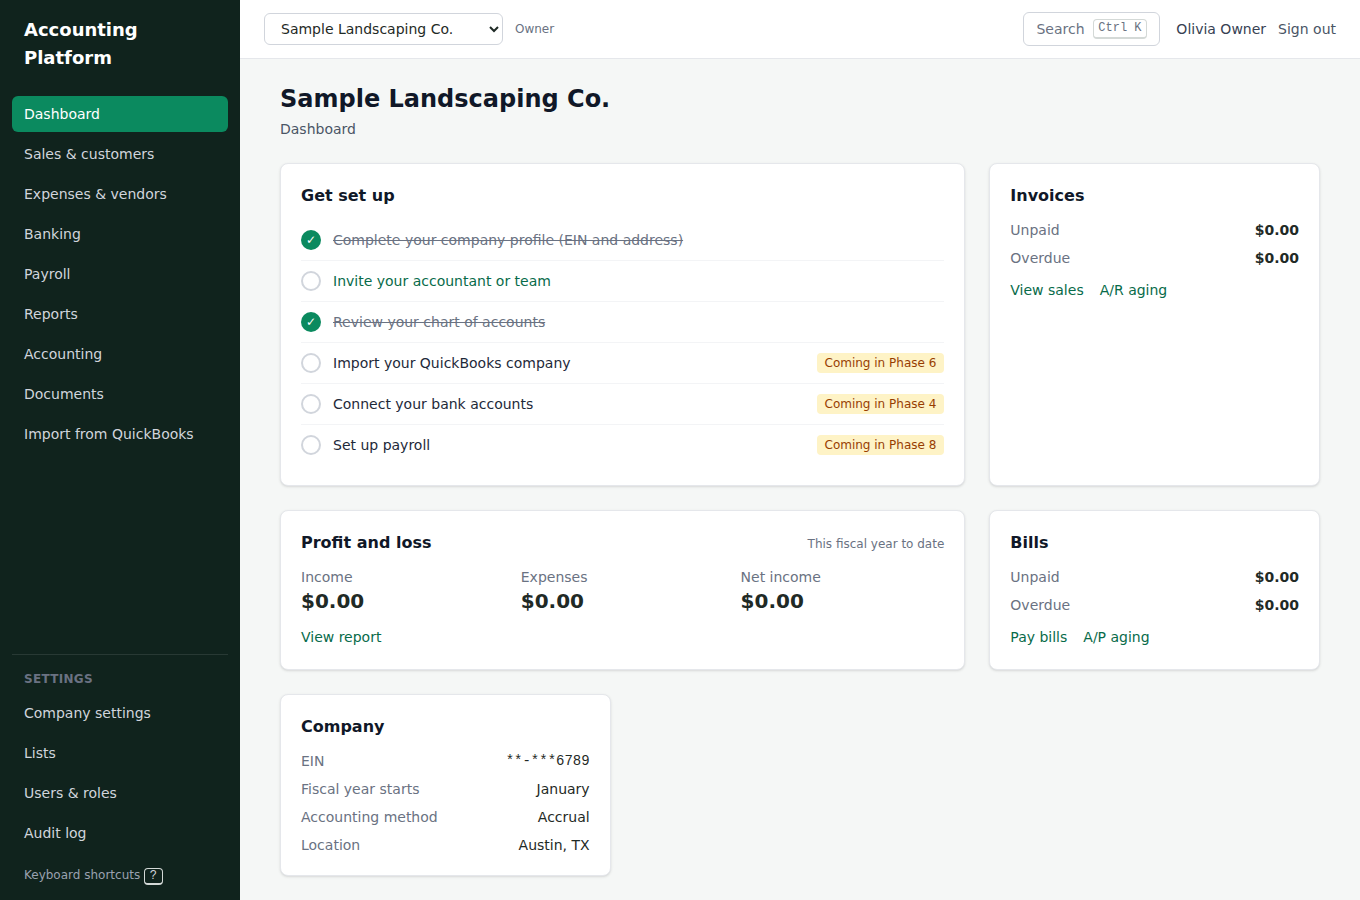
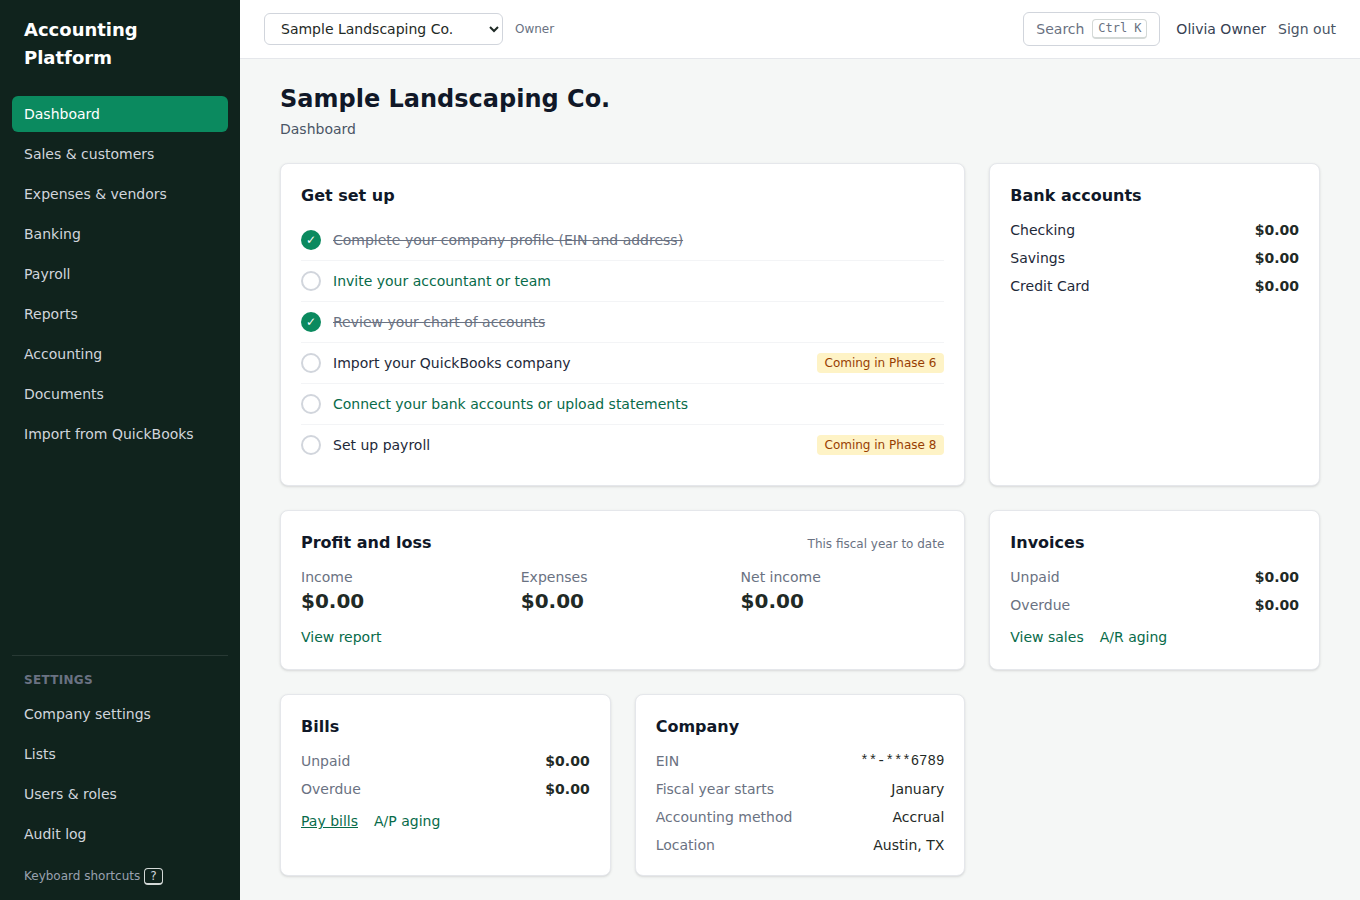
Phase 4 docs: report, ADR 0011, open questions, configuration, screenshots
Claude-Session: https://claude.ai/code/session_018Xjhpppf9gi6XhQLMfeupP

diff --git a/docs/phase-4.md b/docs/phase-4.md
@@ -1,0 +1,123 @@
+# Phase 4: Banking
+
+## Delivered
+
+- **Banking page:**
+  - One card per bank and credit card account, with the bank's balance next to the balance in the
+    books, the number waiting for review, and the connection status.
+  - "Link account", "Update", "Manage connections" and "Upload transactions".
+- **For Review, Categorized, Excluded** (ADR 0011):
+  - Each bank transaction comes with a suggestion: a match to a transaction already entered, a
+    bank rule, the category used last time for the same payee, or a vendor named in the
+    description.
+  - **Add** creates an expense, a check (when the bank reports a check number), a deposit or a
+    credit card credit. It can be split across categories and customers.
+  - **Match** links a transaction already entered, with "find other records".
+  - **Record as transfer**.
+  - **Exclude**, **restore**, **undo**.
+  - **Batch accept**, exclude, restore and undo. Items that can't be accepted are skipped with the
+    reason.
+  - Accepted transactions are marked cleared, so reconciliation starts pre-ticked.
+  - Voiding or deleting a transaction sends its bank transaction back to For Review.
+- **Upload transactions:**
+  - Web Connect (.qbo), Quicken (.qfx) and OFX 1.x/2.x files, including files with several
+    accounts.
+  - CSV with column mapping, date-format detection, signed or money-out/money-in amounts, and flip
+    signs for card exports. The mapping is remembered per account.
+  - A preview before importing, and an optional "skip transactions before".
+  - Duplicates are skipped: by bank id, and across sources (a file after the live feed).
+- **Bank rules:**
+  - Description, payee or amount conditions (all or any); money in, out or both; chosen accounts.
+  - Categorize (with payee and memo), transfer or exclude.
+  - Priority order, and **auto-add**.
+- **Live bank feeds:**
+  - A `BankDataProvider` interface with a Plaid implementation: Link, token exchange, accounts,
+    Transactions Sync, signed webhooks, and re-authentication in Link update mode.
+  - A development bank (mock) for demos and tests.
+  - Map each downloaded account to a bank or credit card account and choose the start date.
+  - Access tokens are encrypted and never shown or audited.
+- **Registers:**
+  - A running balance for bank, card and other balance sheet accounts, with Payment/Deposit
+    (Payment/Charge for cards) columns.
+  - The payee and other account ("-Split-"), a cleared column you can tick (C) with reconciled
+    shown as R, and a "Bank" badge on items from the feed.
+  - Search, a date range and paging.
+- **Transfers** between balance sheet accounts, including **paying a credit card**. Edit, void
+  and delete.
+- **Reconcile:**
+  - Statement date and ending balance, and payments and deposits to tick (tick all per section).
+  - Beginning, cleared, ending and difference.
+  - Finish only at 0.00, save for later, or cancel.
+  - History with **reconciliation reports** (printable) and **undo last reconciliation**.
+  - The amounts of reconciled transactions are protected until the reconciliation is undone.
+- **Dashboard:** a Bank accounts card, and the set-up checklist links to Banking.
+- **Shortcuts:**
+
+  | Keys  | Opens                            |
+  | ----- | -------------------------------- |
+  | `g b` | Banking                          |
+  | `g f` | Transfer (or pay a credit card)  |
+  | `g z` | Reconcile                        |
+  | `g k` | Bank deposit (existing since P2) |
+
+  Bank rules and Upload bank transactions are in the `Ctrl/⌘+K` palette.
+
+- **Permissions:** `banking.view` to read and `banking.manage` to change. Registers are also
+  readable with `ledger.view`, and reconciliation reports with `reports.view`.
+- **Seed:** the demo company has:
+  - a credit card payment (transfer);
+  - two bank rules (Fuel, and Bank fees with auto-add);
+  - an uploaded May statement for Checking: one item matches the card payment, one matches check
+    1001, the service fee was auto-added, and the rest wait for review.
+
+## Configuration
+
+| Variable             | Values                            | Notes                                                             |
+| -------------------- | --------------------------------- | ----------------------------------------------------------------- |
+| `BANK_FEED_PROVIDER` | `mock` (default), `plaid`, `none` | `mock` is refused in production; `none` means file imports only   |
+| `PLAID_CLIENT_ID`    |                                   | Required with `plaid`                                             |
+| `PLAID_SECRET`       |                                   | Required with `plaid`; never logged                               |
+| `PLAID_ENV`          | `sandbox` (default), `production` |                                                                   |
+| `PLAID_WEBHOOK_URL`  | `https://…/api/webhooks/plaid`    | Optional; without it, downloads happen on "Update" and after Link |
+
+## Demo script
+
+1. Run `pnpm db:migrate && pnpm db:seed && pnpm dev` and sign in as `demo@example.com`.
+2. Press `g b`. On Checking:
+   - "ONLINE TRANSFER TO CARD" suggests the card payment; press **Match**.
+   - "CHECK 1001" suggests the check paid in the Phase 3 demo; press **Match**.
+3. The SHELL row shows "Rule: Fuel". Tick it and **Accept 1**.
+4. Press **Review** on HOME DEPOT and split it between Repairs and Maintenance and Supplies.
+5. Open **Categorized**: the service fee was added by the Bank fees rule. Undo it, and it's back
+   in For Review.
+6. Press **Link account**, then **Connect First Mock Bank**. Map Business Checking to Savings and
+   Business Visa to Credit Card. Seven Savings transactions arrive.
+7. Press `g z` and choose Checking. Enter the statement date and the cleared balance shown; the
+   matched items arrive ticked. **Finish now** opens the reconciliation report.
+8. Open the SHELL expense and try to change its amount: it's reconciled. Go back to **Reconcile ›
+   History**, undo the reconciliation, and the change goes through.
+
+## Tests
+
+| Suite                   | Count | Highlights                                                                                                                                                                                                                                                                                                                                                                                                                                                                                                                                                                                                  |
+| ----------------------- | ----- | ----------------------------------------------------------------------------------------------------------------------------------------------------------------------------------------------------------------------------------------------------------------------------------------------------------------------------------------------------------------------------------------------------------------------------------------------------------------------------------------------------------------------------------------------------------------------------------------------------------- |
+| `packages/shared`       | 94    | +47: OFX SGML/XML (bank and card, missing FITIDs, entities, dates), CSV (quoting, separators, BOM, date formats, signed and split amounts, flip signs, repeatable ids), bank amount formats with **property tests** (exact round trips), description similarity, rule matching (text, amount, direction, accounts, all/any, priority), banking schemas, `formatDollars`                                                                                                                                                                                                                                     |
+| `packages/crypto`       | 13    | Unchanged                                                                                                                                                                                                                                                                                                                                                                                                                                                                                                                                                                                                   |
+| `packages/db`           | 45    | +9: transfer type, bank-id duplicates, zero amounts and status rules, tenant isolation and cross-company references, one reconciliation in progress, reconciled needs a reconciliation, rule actions need accounts, one feed per account, webhook tenant lookup (and the table stays hidden)                                                                                                                                                                                                                                                                                                                |
+| `apps/api`              | 140   | +35: transfers and registers (natural signs), OFX import and re-import, match/add/split/deposit/transfer, rules with auto-add and CSV mapping, exclude/restore/batch/undo, learned categories, card payment matched with the card's sign, reconciliation (pre-ticked, zero difference, finish, report, undo), reconciled amounts protected, void returns the bank transaction to For Review, audit, mock connection (map, sync, balances, disconnect), access tokens never exposed, webhooks, body limits; matching and duplicate scoring; Plaid provider with a fake API and real ES256 webhook signatures |
+| `apps/web` (Playwright) | 6     | +1: transfer (card payment) → upload QBO → match, categorize, split deposit → bank rule and batch accept → register → reconcile with untick/retick → report → link mock bank and map accounts → dashboard                                                                                                                                                                                                                                                                                                                                                                                                   |
+
+## Known gaps and decisions for later phases
+
+- **Plaid in production** needs a Plaid account, production access and a public webhook URL
+  (see open questions). Everything is tested against a fake Plaid API and the mock bank.
+- There is no **scheduled sync**. Downloads happen on "Update", after connecting, and on Plaid
+  webhooks. A nightly job comes with background jobs (Phase 12).
+- **Matching to open invoices or bills** (receive payment or pay a bill straight from the bank
+  feed) isn't offered yet. Enter the payment, then match it.
+- **Service charges and interest** aren't entered on the reconcile screen; add them from the
+  bank feed or as an expense or deposit first.
+- **Reconciled transactions can't change amount** until the reconciliation is undone (QuickBooks
+  warns instead; see open questions).
+- A **vendor refund** can't name the vendor on a deposit.
+- **Multi-currency** bank accounts come with Phase 10.

diff --git a/docs/adr/0011-banking.md b/docs/adr/0011-banking.md
@@ -1,0 +1,165 @@
+# ADR 0011: Banking: registers, reconciliation, bank feeds (Phase 4)
+
+- Status: Accepted
+- Date: 2026-09-29
+
+## Context
+
+Phase 4 adds what a bookkeeper does with bank and credit card accounts:
+
+- registers and transfers;
+- reconciliation against statements;
+- statement file imports and live bank feeds, with a For Review workflow, matching and bank
+  rules.
+
+It has to keep the journal rules of ADR 0007 (one posting path, append-only versioned lines) and
+the document design of ADR 0009/0010.
+
+## Decision
+
+### Transfers are journal transactions; everything else sits beside the journal
+
+- A **transfer** is a new transaction type posted through `PostingService`: Dr "to", Cr "from".
+  Paying a credit card is a transfer from the bank to the card.
+- **Cleared and reconciled marks** live in `bank_clearings` (transaction × account), not on
+  journal lines. Lines are versioned and append-only, but clearing is current state that changes
+  often. A transaction can be cleared in one account and not in the other (a card payment clears
+  the bank statement and the card statement separately).
+- **Registers** are computed from the journal: each posted transaction's net on the account, a
+  running balance ordered by date and entry, and the payee and "split" column from its other
+  lines.
+
+### Natural sign
+
+Registers, reconciliations and downloaded transactions use the account's natural sign:
+
+- For assets (bank), the balance goes up with debits.
+- For liabilities (credit card, loans), the balance owed goes up with credits.
+
+Bank amounts are signed as money into the account, which is debit − credit on the account for both
+banks and cards. So a card payment (+) matches a transfer to the card, and a charge (−) matches an
+expense paid by card.
+
+### Reconciliation
+
+| Step    | What happens                                                                                                                                                                                                                  |
+| ------- | ----------------------------------------------------------------------------------------------------------------------------------------------------------------------------------------------------------------------------- |
+| Start   | Statement date and ending balance. One in progress per account (unique partial index). The date must be later than the last completed reconciliation.                                                                         |
+| Tick    | Ticks are cleared marks, so they also show as "C" in the register. Transactions added or matched from the bank feed arrive ticked.                                                                                            |
+| Balance | Beginning balance = everything reconciled so far. Cleared balance = beginning + ticked transactions dated on or before the statement date. Difference = ending − cleared.                                                     |
+| Finish  | Only at a difference of 0.00. The ticked transactions become reconciled ("R") and point to the reconciliation.                                                                                                                |
+| Undo    | Only the latest completed reconciliation of an account, and only with none in progress. Its transactions go back to cleared. Audited.                                                                                         |
+| Report  | Summary (beginning, cleared, ending, uncleared, register balances) and detail. Payments and deposits (or charges and payments for a card) are listed as cleared, uncleared as of the statement, and after the statement date. |
+
+**Reconciled amounts are protected.** `PostingService.revise` refuses a new version that changes a
+reconciled transaction's net on the reconciled account, and `setStatus` refuses to void or delete
+it (`409 RECONCILED`). Memo, payee, category and date changes are allowed. Undoing the
+reconciliation is the way to change the amount. QuickBooks only warns here; see open questions.
+
+### Bank transactions and For Review
+
+- Downloaded and imported transactions land in `bank_feed_transactions` with a bank id, unique per
+  account. The bank id is one of:
+  - the FITID (`ofx:`);
+  - Plaid's `transaction_id` (`plaid:`);
+  - for files without ids, a content id (`csv:` or `ofx-h:`) of date, amount, a hash of the
+    description, and an occurrence number (so two identical purchases on one day both import, and
+    re-importing the file finds both as duplicates).
+- **Duplicates from another source** (a file after the feed, or the reverse) are found by the same
+  amount within 3 days and similar descriptions. Each existing row pairs with at most one new row,
+  closest date first. Rows from the same source are compared by id only.
+- **Suggestions** for each For Review item, first match wins:
+  1. A match to a transaction already in the books: same amount; posted 5 days before to 10 days
+     after it (90 days for a check with the same number); scored by date, check number and payee.
+  2. The first bank rule that applies.
+  3. The category chosen last time for the same payee (learned from earlier added items).
+  4. A vendor or customer whose name appears in the description.
+- **Accepting**:
+  - Add creates a real document through its service: an expense (a check when the bank reports a
+    check number), a deposit, or a credit card credit. Splits are supported.
+  - Transfer creates a transfer.
+  - Match links an existing transaction.
+  - In every case the transaction is marked cleared in the account.
+- **Exclude** hides an item; restore brings it back. **Undo**:
+  - An added transaction is deleted.
+  - A match is unlinked and its cleared mark removed.
+- Voiding or deleting a transaction elsewhere sends its bank transaction back to For Review
+  (`PostingService.setStatus`).
+- **Batch** actions run each item in a savepoint. One failure (a closed period, a missing
+  category) skips that item with a reason; the rest go through.
+
+### Bank rules
+
+- Conditions are on description, payee or amount (without its sign), combined with all or any.
+- Rules can be limited to money in or out and to certain accounts.
+- Actions: categorize (account, vendor or customer, class, memo), transfer, or exclude.
+- Rules run in priority order (then name) and the first match wins. They are evaluated when the
+  list is shown, so a new rule applies to items already waiting.
+- **Auto-add** rules accept items as they arrive, except items that match a transaction already
+  entered.
+
+### File imports
+
+- **OFX 1.x (SGML) and 2.x (XML).** One tolerant reader serves QFX and QuickBooks Web Connect
+  (QBO) too. It reads leaf elements with or without closing tags. It supports:
+  - bank (`STMTRS`) and credit card (`CCSTMTRS`) statements, and choosing among several in one
+    file;
+  - the ledger balance, stored as the account's last bank balance.
+- **CSV** with RFC 4180 quoting and `,` `;` or tab separators:
+  - column mapping: date, description, memo, payee, check number, and either a signed amount or
+    money-out and money-in columns;
+  - an option to flip signs;
+  - date-format detection (MDY, DMY or YMD, with MDY preferred when ambiguous);
+  - the mapping is saved per account.
+- The parsers live in `@acct/shared`. The web parses the file to preview it and choose columns,
+  and the API parses it again to import it. Files are sent as JSON text; only the import route
+  accepts bodies over 256 KB (up to 6 MB).
+
+### Live feeds: the `BankDataProvider` seam
+
+- `BankDataProvider` defines:
+  - `createLinkToken` (including update mode for re-authentication);
+  - `exchangePublicToken`, `getAccounts`;
+  - `syncTransactions(cursor)`;
+  - `removeItem`;
+  - `parseWebhook`, which verifies and reads a webhook.
+- **Plaid** is implemented over its REST API without the SDK:
+  - Link, `/item/public_token/exchange`, `/accounts/get`, `/transactions/sync` and
+    `/item/remove`.
+  - Pending transactions are skipped; the posted one arrives when it settles.
+  - Plaid's sign (positive = money out) is flipped.
+  - Webhooks are verified: ES256 JWT in `Plaid-Verification`, key from
+    `/webhook_verification_key/get`, body SHA-256 and a 5-minute age limit.
+- A **mock** provider serves development, tests and demos. It is refused in production.
+- `BANK_FEED_PROVIDER=plaid|mock|none` chooses the provider. With `none`, banking works with file
+  imports only.
+- **Access tokens** are encrypted with `FieldEncryptor` (AAD `bank_connection:<id>:access_token`).
+  They never appear in responses, logs or the audit log.
+- **Sync** downloads every page first, with no database transaction open during network calls,
+  then stores them in one transaction:
+  - It ingests added transactions for mapped accounts from each account's start date (default 90
+    days back).
+  - It updates modified items still in For Review and deletes removed ones.
+  - It stores balances and the cursor.
+  - Mapping accounts resets the cursor so newly mapped accounts get their history; the bank ids
+    make this safe.
+- **Webhooks** arrive without a tenant context. `app_bank_connection_company(provider, item_id)`
+  is a `security definer` function that returns only the owning company id. The API then works
+  inside `withTenant` as the user who connected the bank.
+  - `SYNC_UPDATES_AVAILABLE` triggers a sync.
+  - Login errors mark the connection "sign-in needed" until the user re-authenticates through Link
+    update mode.
+- The webhook route is public and exempt from the CSRF header check. Authenticity comes from the
+  signature, and it can only trigger a download or a status change for the item it names.
+
+## Consequences
+
+- Reconciliation and the bank feed read the same journal the reports read. Nothing in banking
+  can make the books and the register disagree.
+- Transactions created from the bank feed are ordinary expenses, checks, deposits, card credits
+  and transfers. They appear in every report, the 1099 summary (bank-paid only) and cash basis
+  without special cases.
+- A Plaid account (client id, secret, production access and a public webhook URL) is needed
+  before live feeds go beyond the mock; see open questions.
+- Deposits can't name a vendor. A vendor refund arriving in the bank is categorized without a
+  vendor, or matched to a deposit entered by hand.

diff --git a/CLAUDE.md b/CLAUDE.md
@@ -30,7 +30,9 @@ A single package: `pnpm --filter @acct/api test`, `pnpm --filter @acct/db test`,
   ledger (accounts, journal entries, posting engine, ledger settings), lists, sales (invoices,
   receipts, credit memos, refunds, payments, deposits, estimates), purchases (bills, vendor credits,
   bill payments/pay bills, checks and check printing, expenses, credit card credits, purchase
-  orders, 1099 in `vendor-1099.ts`), reports (A/R and A/P reports; cash basis in `cash-basis.ts`).
+  orders, 1099 in `vendor-1099.ts`), banking (transfers, registers, reconciliation, bank feed
+  For Review/rules/import, connections through `BankDataProvider` with Plaid and a mock in
+  `banking/providers/`), reports (A/R and A/P reports; cash basis in `cash-basis.ts`).
   The A/R and A/P subledgers share one engine: `ledger/subledger.ts`.
 - `apps/web`: Next.js 16 (App Router) + TanStack Query + Tailwind 4. Calls the API only via `/api/*`.
 - `packages/db`: plain-SQL migrations, migrator, Kysely types, `withTenant()`, `createTestDatabase()`.
@@ -80,6 +82,12 @@ A single package: `pnpm --filter @acct/api test`, `pnpm --filter @acct/db test`,
   are versioned (ADR 0009, 0010). Keep the A/R and A/P subledgers tied to the GL: open items must
   sum to the control account balance (property tests check this).
 - A journal line names one party (`customer_id` or `vendor_id`, never both).
+- Banking uses the account's natural sign (bank: debits raise the balance; card/loan: credits
+  raise what's owed). Bank amounts are "money in" positive = debit − credit on the account.
+  Cleared/reconciled marks live in `bank_clearings`, never on journal lines (ADR 0011).
+- Bank statement parsers (`packages/shared/src/bank-files.ts`) are pure and shared: the web
+  previews, the API re-parses. External calls (Plaid) go through `BankDataProvider`; tests use the
+  mock or a fake `fetch`, never the network.
 - Transaction links in the web go through `apps/web/src/lib/links.ts` (`txnHref`).
 - Database errors map to HTTP in `common/pg-error.filter.ts`; add friendly messages for new unique
   indexes there.
@@ -90,7 +98,7 @@ A single package: `pnpm --filter @acct/api test`, `pnpm --filter @acct/db test`,
 - [x] Phase 1: Ledger core (chart of accounts, lists, journal entries, posting engine, TB/GL/P&L/BS)
 - [x] Phase 2: Sales & A/R (invoices, payments, deposits, estimates, statements, A/R reports, cash basis)
 - [x] Phase 3: Purchases & A/P (bills, pay bills, checks + printing, expenses, POs, vendor credits, 1099, A/P reports)
-- [ ] Phase 4: Banking (registers, reconciliation, file imports, Plaid)
+- [x] Phase 4: Banking (registers, transfers, reconciliation, file imports, bank rules, Plaid feeds)
 - [ ] Phase 5: Documents
 - [ ] Phase 6: QuickBooks migration
 - [ ] Phase 7: Reports suite, sales tax, budgets

diff --git a/docs/open-questions.md b/docs/open-questions.md
@@ -58,3 +58,19 @@ Add new questions here instead of guessing.
     does) or only warned?
 20. **1099 and card payments:** we exclude anything paid by credit card (reported on 1099-K). Is
     that right for your clients, including debit cards and payment apps?
+
+## Banking (Phase 4)
+
+21. **Plaid account:** live bank feeds need a Plaid client id and secret, production access
+    (Plaid reviews the use case) and a public HTTPS URL for webhooks. Who should own the Plaid
+    account, and which plan? Until then `BANK_FEED_PROVIDER=none` (file imports) or the mock.
+22. **Editing reconciled transactions:** we block changing the amount, voiding or deleting a
+    reconciled transaction until the reconciliation is undone. QuickBooks only warns and lets the
+    reconciliation go out of balance. Should an accountant role be allowed to override with a
+    warning?
+23. **Download history:** new connections download 90 days by default (editable per account). Is
+    that right for your clients, or should it default to the start of the fiscal year?
+24. **Who can undo a reconciliation:** today anyone with `banking.manage`. QuickBooks Online
+    limits it to accountant users. Should it need the accountant or admin role?
+25. **Bank feed transactions from closed periods:** they can be downloaded and reviewed, but
+    adding them needs the closing-date password. Should they be excluded automatically instead?
